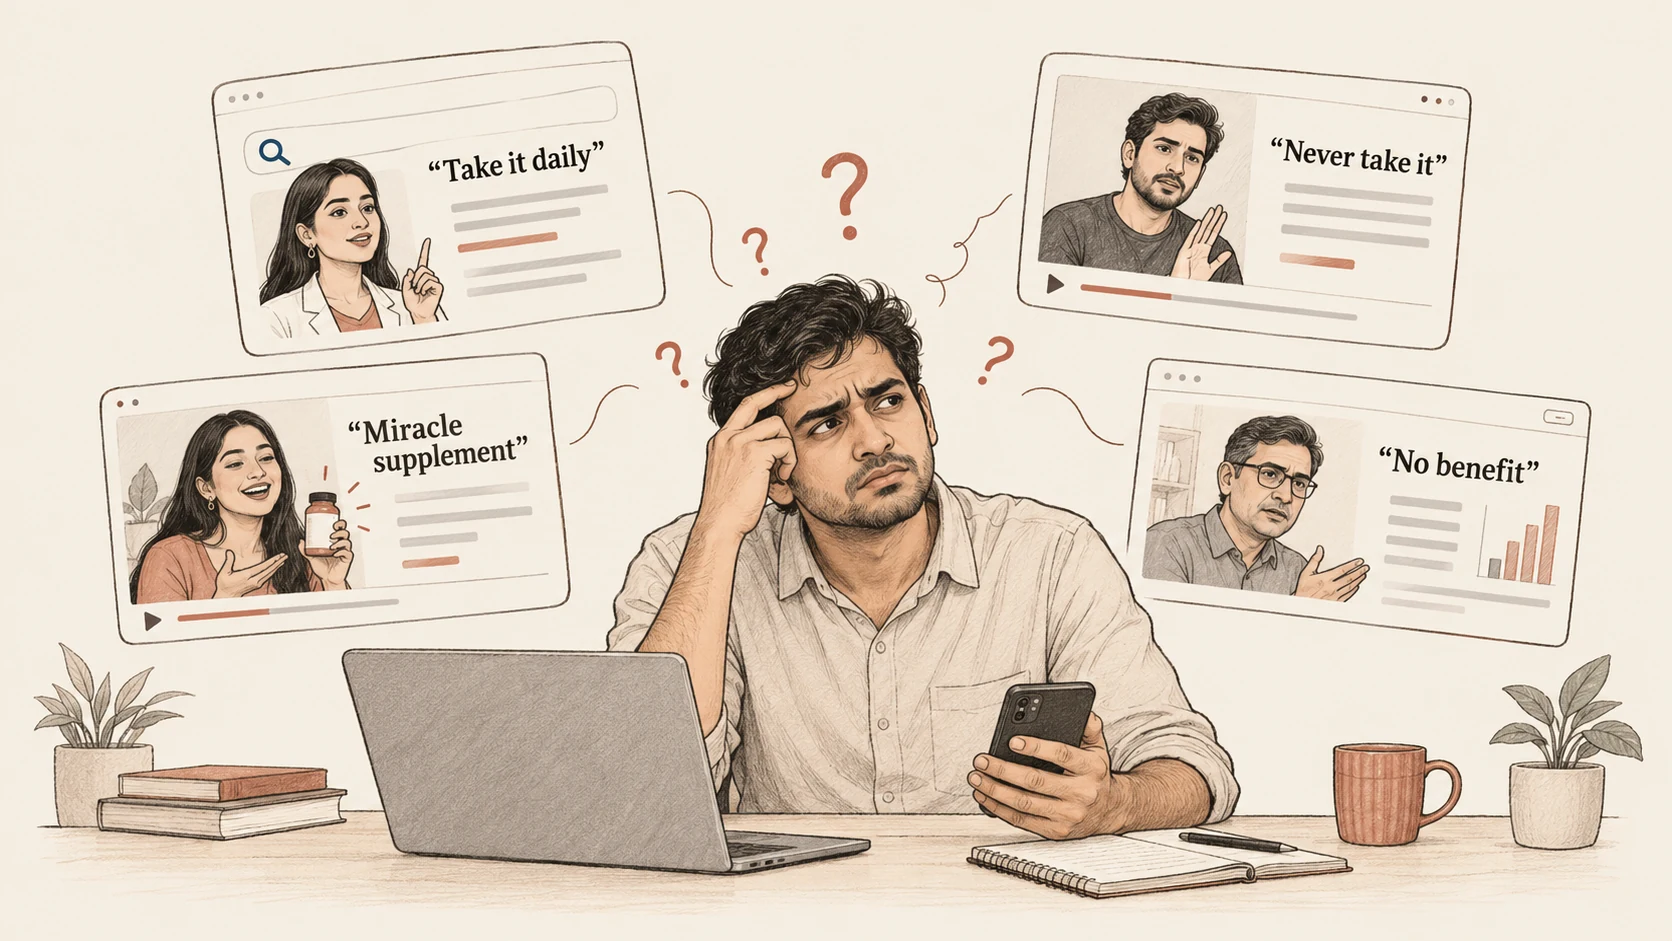
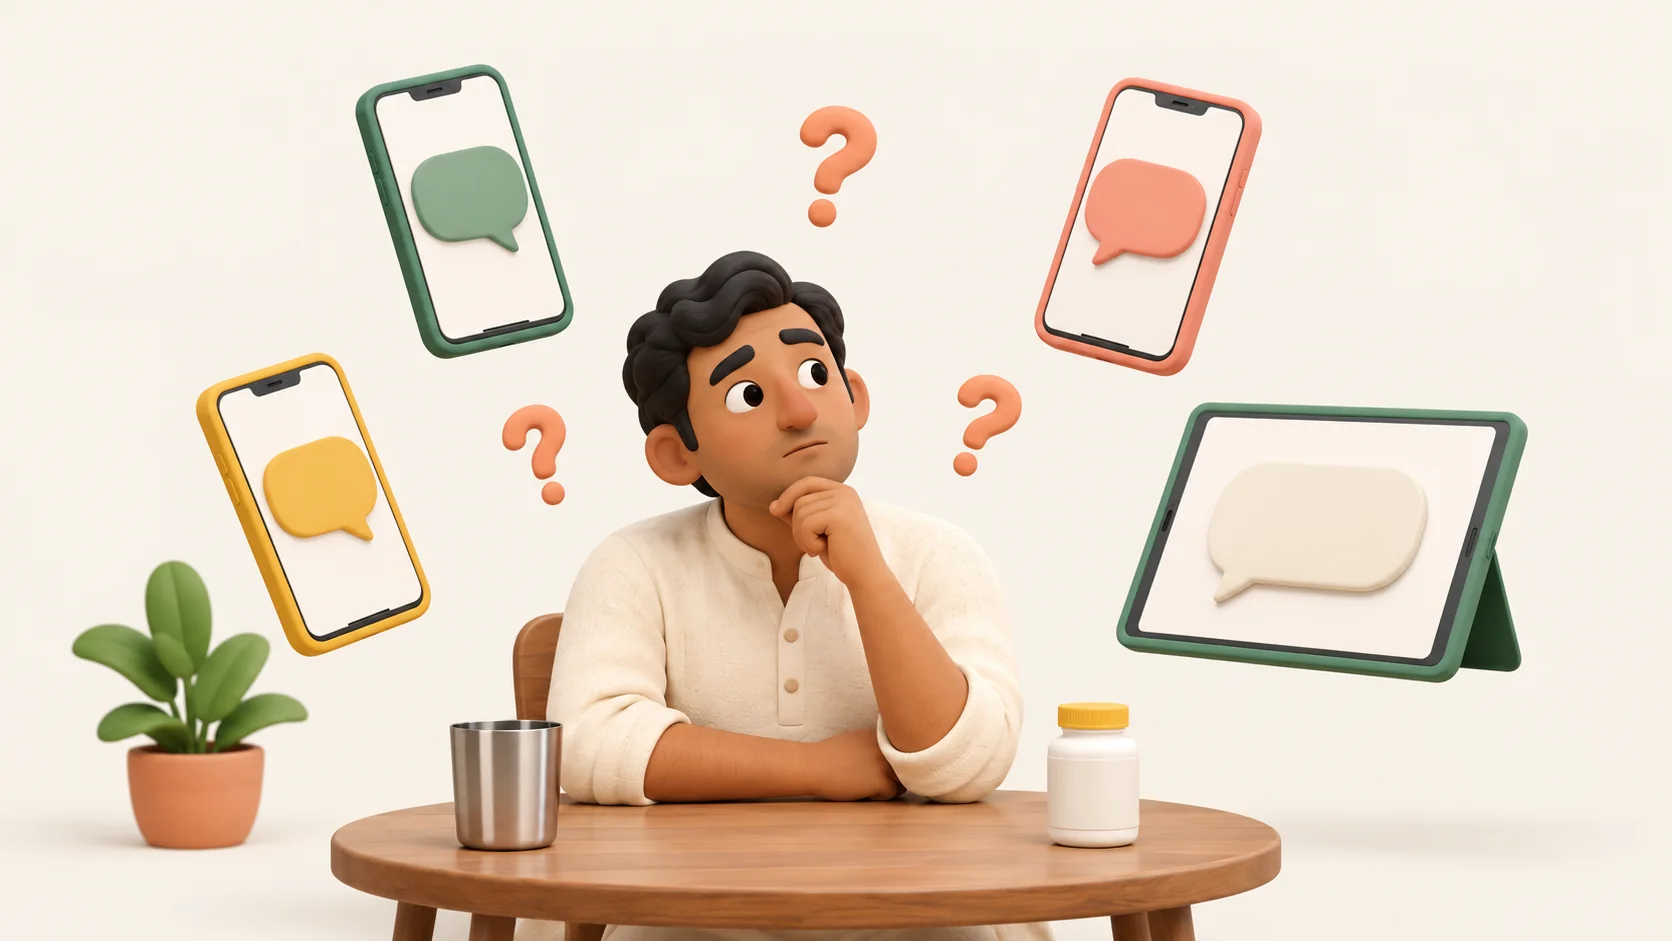
Replace story illustrations with lightweight clay artwork

diff --git a/index.html b/index.html
@@ -418,7 +418,7 @@ OTHER DEALINGS IN THE FONT SOFTWARE.
         </div>
         <figure class="story-figure">
           <a class="story-image-link" href="assets/illustrations/conflicting-health-advice.webp" target="_blank" rel="noopener" aria-label="View the problem illustration at full size (opens in a new tab)">
-            <img src="assets/illustrations/conflicting-health-advice.webp" width="1672" height="941" loading="lazy" decoding="async" alt="An illustrated person looking confused at a laptop, surrounded by contradictory online advice: Take it daily, Never take it, Miracle supplement, and No benefit.">
+            <img src="assets/illustrations/conflicting-health-advice.webp" srcset="assets/illustrations/conflicting-health-advice-900.webp 900w, assets/illustrations/conflicting-health-advice.webp 1672w" sizes="(max-width: 860px) calc(100vw - 48px), 60vw" width="1672" height="941" loading="lazy" decoding="async" alt="Clay-style illustration of an Indian adult surrounded by phones and a tablet with conflicting blank speech bubbles.">
           </a>
           <figcaption>AI-generated illustration of conflicting health claims. <a href="assets/illustrations/conflicting-health-advice.webp" target="_blank" rel="noopener" aria-label="View the problem illustration at full size (opens in a new tab)">View full size</a></figcaption>
         </figure>
@@ -433,7 +433,7 @@ OTHER DEALINGS IN THE FONT SOFTWARE.
         </div>
         <figure class="story-figure">
           <a class="story-image-link" href="assets/illustrations/evidence-desk-explanation-v2.webp" target="_blank" rel="noopener" aria-label="View the approach illustration at full size (opens in a new tab)">
-            <img src="assets/illustrations/evidence-desk-explanation-v2.webp" width="1672" height="941" loading="lazy" decoding="async" alt="AI-generated illustration: the same person, now calm, with two Evidence Desk screens behind him. One traces the answer to a supporting passage and the original study, with the catch and the limits. The other checks a claim, Does magnesium help sleep?, and labels it Evidence with limits.">
+            <img src="assets/illustrations/evidence-desk-explanation-v2.webp" srcset="assets/illustrations/evidence-desk-explanation-v2-900.webp 900w, assets/illustrations/evidence-desk-explanation-v2.webp 1672w" sizes="(max-width: 860px) calc(100vw - 48px), 60vw" width="1672" height="941" loading="lazy" decoding="async" alt="Clay-style concept illustration of a magnifying glass highlighting a passage beside a phone with a blank answer card.">
           </a>
           <figcaption>AI-generated illustration of the Evidence Desk approach, not a product screenshot.</figcaption>
         </figure>
